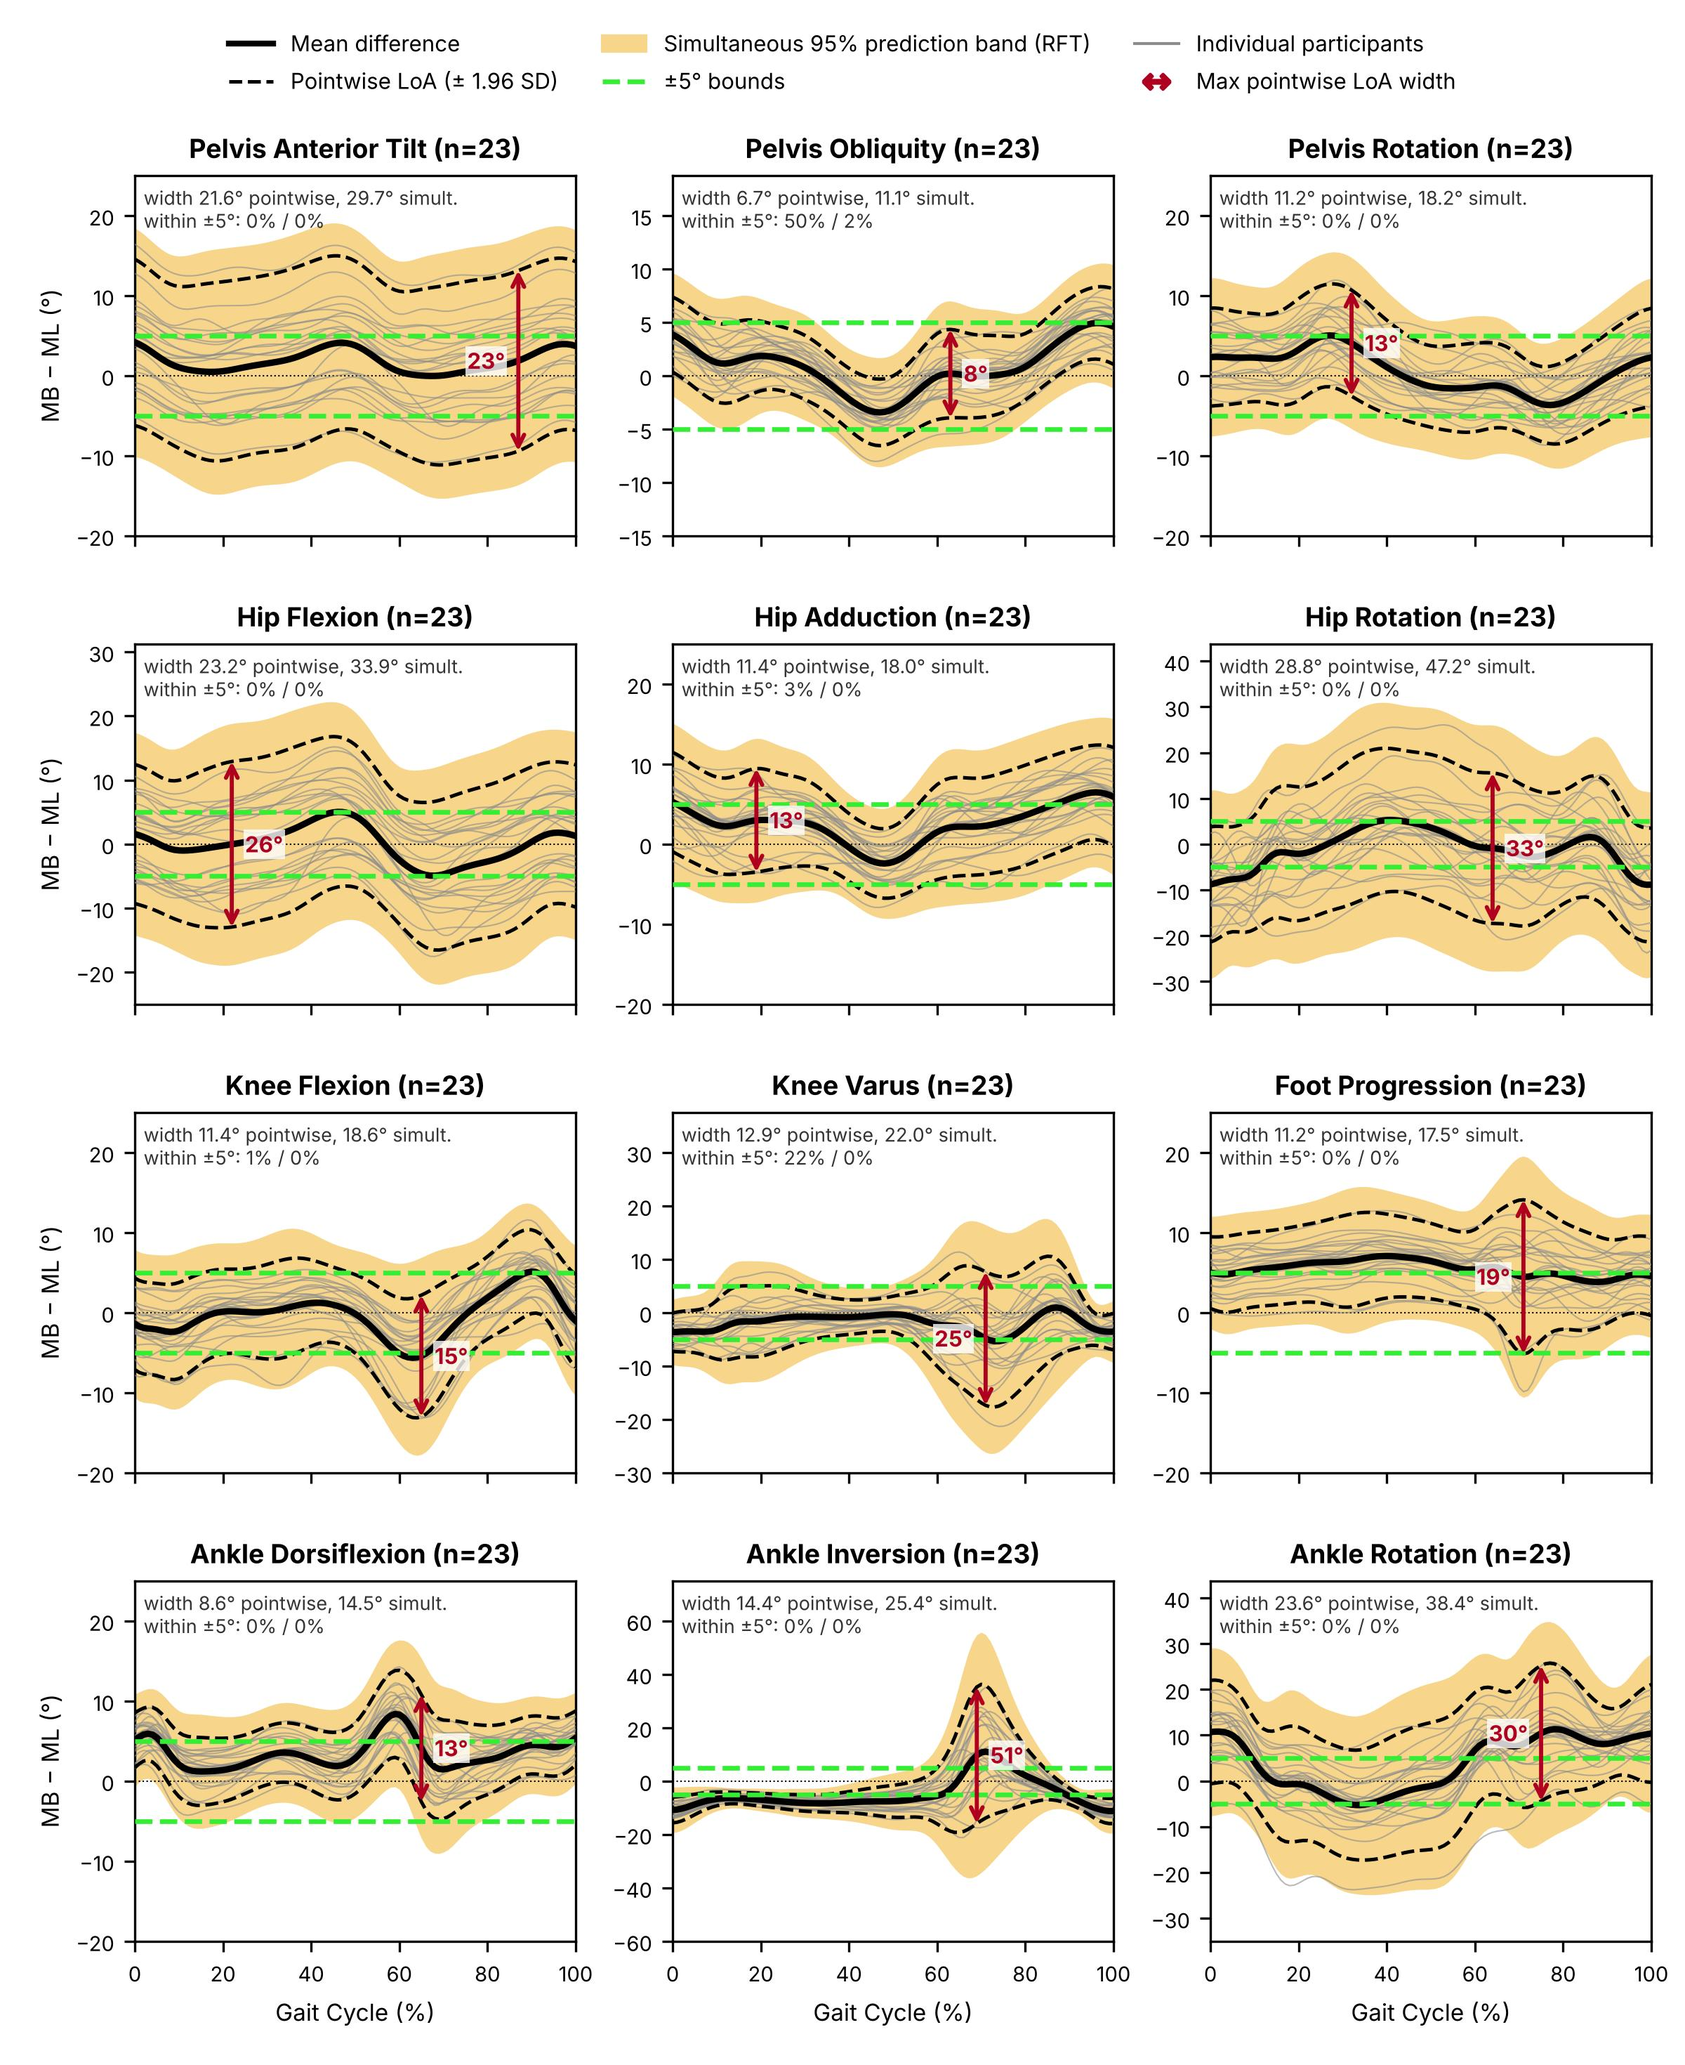
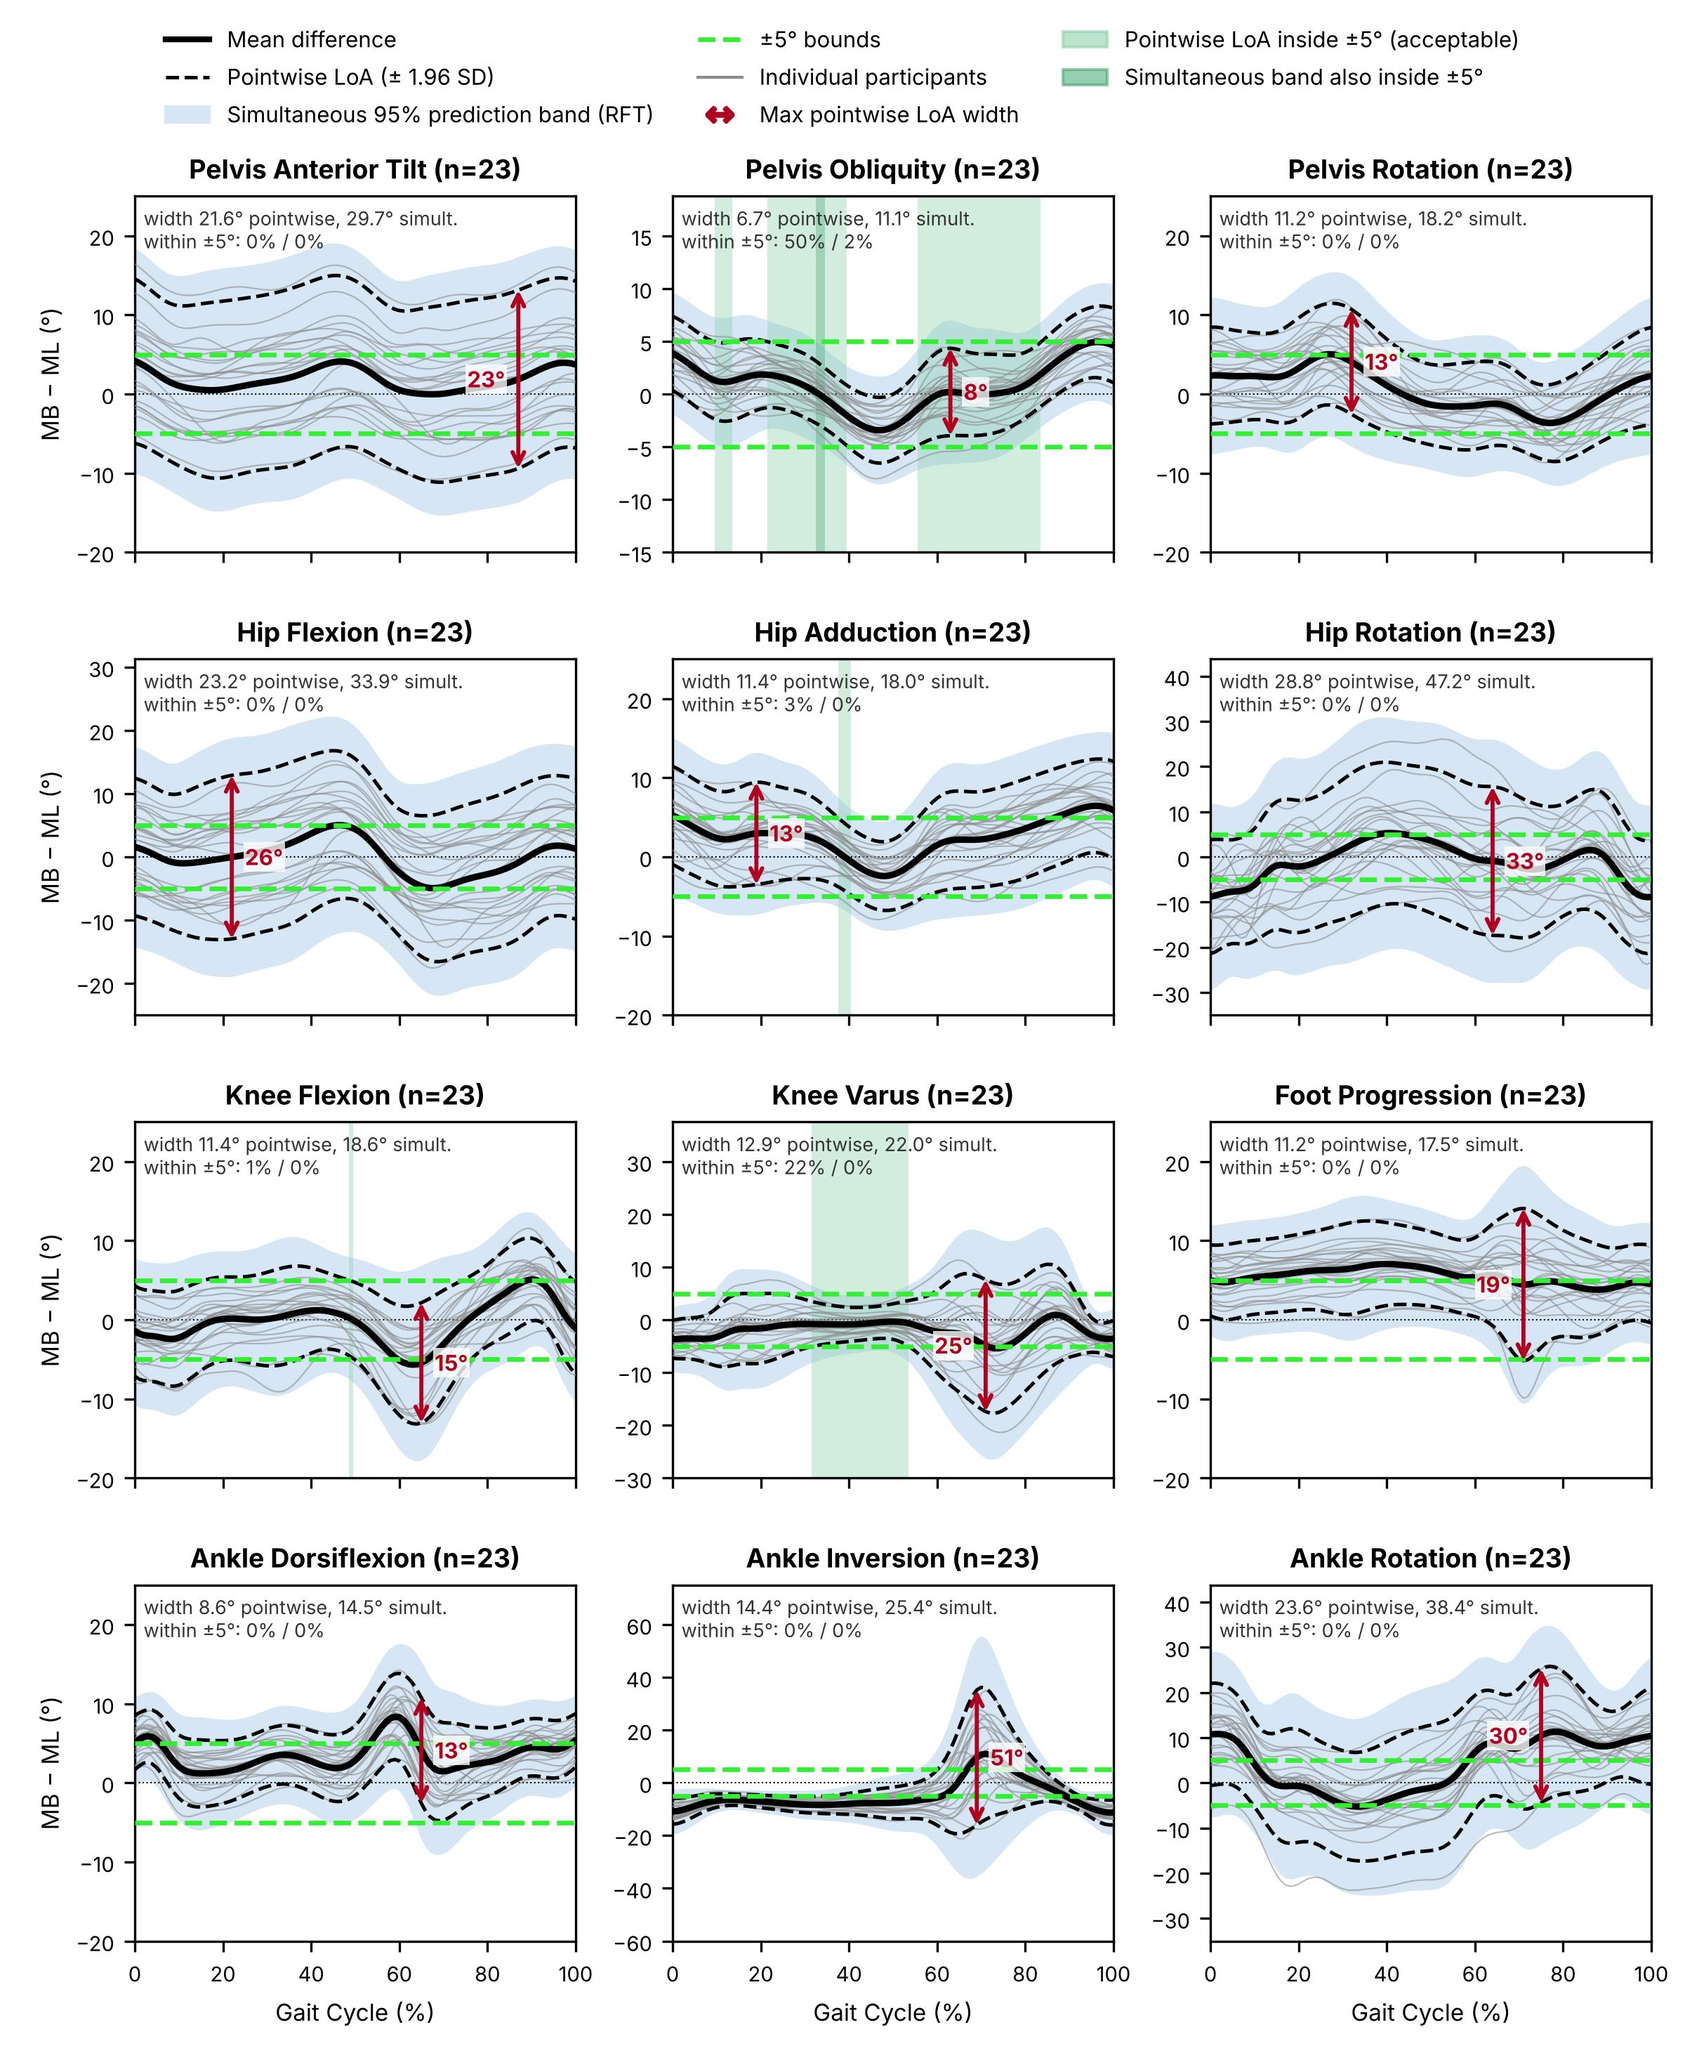
LoA and conceptual figures: mark acceptable agreement in green, neutral band
The simultaneous prediction band is light blue (no verdict implied) and green shading marks where the
pointwise LoA (light) and the simultaneous band (darker) lie inside the bounds, i.e. acceptable agreement.
Amber and red are now reserved for the equivalence outcomes. The conceptual figure panels c and d use the
same language (acceptable vs not acceptable), and both figures are regenerated.

Claude-Session: https://claude.ai/code/session_015w9XBhFVNXRPjuHceetm3n

diff --git a/python_analysis/07_plot_conceptual_figure.py b/python_analysis/07_plot_conceptual_figure.py
@@ -22,14 +22,17 @@ a  One point of the gait cycle: five example 90 % CIs of the mean difference MB 
 b  Across the gait cycle: the mean difference and its CI band coloured by outcome (the part of the band beyond a bound
    drawn darker), the share of the cycle that is equivalent, and an SPM bar underneath.
 c  One point of the gait cycle: distribution of individual differences with the LoA (mean +/- 1.96 SD) against the
-   bounds - interchangeable, equivalent for group means only, or not interchangeable.
+   bounds - acceptable (LoA inside +/-Delta) or not acceptable (LoA exceed +/-Delta), the latter either with the group
+   mean inside the bounds or with a systematic bias.
 d  Across the gait cycle: smooth individual difference curves, pointwise LoA, the simultaneous prediction band
    (a schematic multiplier of 3.0 stands in for the random-field-theory threshold) and the bounds, with bars showing
    where each band lies inside +/-Delta.
 
-Colours match the results figures: green = equivalent / interchangeable, amber = inconclusive / group-level only and
-the simultaneous prediction band, red = not equivalent / not interchangeable.  The equivalence classification uses the
-same function as the analysis (``common.classify_equivalence``).
+Colours match the results figures.  Equivalence outcomes (panels a, b): green = equivalent, amber = inconclusive,
+red = not equivalent.  Agreement (panels c, d): green marks ACCEPTABLE agreement (LoA inside +/-Delta; the lighter green is
+the pointwise LoA, the darker green also the simultaneous band) and the simultaneous band itself is light blue, so no
+verdict is implied where the LoA exceed the bounds.  The equivalence classification uses the same function as the analysis
+(``common.classify_equivalence``).
 
 Usage
 -----
@@ -58,13 +61,15 @@ OUT.parent.mkdir(parents=True, exist_ok=True)
 D = 5.0                                                     # equivalence bound (schematic, "Delta")
 C_EQ, C_INC, C_NE = '#2ca25f', '#f0a020', '#d62728'          # strong colours: equivalent / inconclusive / not equivalent
 L_EQ, L_INC, L_NE = '#a6dcbd', '#f7d58b', '#f08f82'          # light band colours
-C_BOUND, C_BAND = '#33ee33', L_INC                           # bounds; simultaneous prediction band (amber, as in 05)
+C_BOUND, C_BAND = '#33ee33', '#d6e6f5'                       # bounds; simultaneous prediction band (light blue, as in 05)
+OK_PW, OK_SIM = '#8fd1ae', '#2f9e63'                         # acceptable agreement: pointwise LoA / simultaneous band inside
+C_NOTOK = '#6b6b6b'                                          # LoA exceed the bounds (no verdict colour)
 x = np.arange(101)
 rng = np.random.default_rng(args.seed)
 
 fig = plt.figure(figsize=(12.5, 10.4))
 gs = fig.add_gridspec(2, 2, width_ratios=[1, 1.2], height_ratios=[1, 1.08], left=0.135, right=0.985, top=0.875,
-                      bottom=0.115, hspace=0.36, wspace=0.34)
+                      bottom=0.135, hspace=0.36, wspace=0.34)
 
 
 def panel_letter(ax, s):
@@ -160,9 +165,9 @@ bar.text(-0.015, 0.5, 'SPM', transform=bar.transAxes, ha='right', va='center', f
 
 # ------------------------------------------------------------------ c: LoA at one point
 sc = [  # mean, sd, outcome text, colour
-    (0.6, 1.1, 'Interchangeable (individual level)', C_EQ, 'LoA inside ±Δ: individual differences are expected to be acceptable'),
-    (0.8, 3.5, 'Equivalent for group means only', C_INC, 'mean inside ±Δ, but LoA exceed ±Δ: individuals may differ too much'),
-    (6.6, 1.5, 'Not interchangeable', C_NE, 'the mean difference itself exceeds ±Δ (systematic bias)'),
+    (0.6, 1.1, 'Acceptable agreement (individual level)', OK_SIM, 'LoA inside ±Δ: individual differences are expected to be acceptable'),
+    (0.8, 3.5, 'Not acceptable: LoA exceed ±Δ', C_NOTOK, 'mean inside ±Δ (group means equivalent), but individual differences are too large'),
+    (6.6, 1.5, 'Not acceptable: LoA exceed ±Δ', C_NOTOK, 'the mean difference itself exceeds ±Δ (systematic bias)'),
 ]
 sub = gs[1, 0].subgridspec(3, 1, hspace=0.55)
 xs = np.linspace(-14, 14, 400)
@@ -213,6 +218,9 @@ plo, phi = m_s - 1.96 * sd_s, m_s + 1.96 * sd_s
 zstar = 3.0                                                       # schematic random-field-theory threshold
 slo, shi = m_s - zstar * sd_s * np.sqrt(1 + 1 / n), m_s + zstar * sd_s * np.sqrt(1 + 1 / n)
 axd.fill_between(x, slo, shi, color=C_BAND, lw=0, zorder=1)
+for mask_, col_, alpha_ in (((plo >= -D) & (phi <= D), OK_PW, 0.40), ((slo >= -D) & (shi <= D), OK_SIM, 0.30)):
+    for s0_, e0_ in runs(mask_):
+        axd.axvspan(s0_ - 0.5, e0_ + 0.5, color=col_, alpha=alpha_, lw=0, zorder=2)      # acceptable agreement
 axd.plot(x, curves.T, color='0.55', lw=0.6, alpha=0.7, zorder=3)
 axd.plot(x, plo, 'k--', lw=1.3, zorder=4); axd.plot(x, phi, 'k--', lw=1.3, zorder=4)
 axd.plot(x, m_s, 'k', lw=2.4, zorder=5)
@@ -227,8 +235,8 @@ axd.set_title('Limits of agreement across the gait cycle (individual level)', fo
 in_p = (plo >= -D) & (phi <= D)
 in_s = (slo >= -D) & (shi <= D)
 axd.text(99, 13.8, "Simultaneous band is wider than the pointwise LoA:\nit covers a new participant's whole curve with 95% probability", ha='right', va='top',
-         fontsize=7.8, color='#a35f00')
-for j, (mask, label, c) in enumerate(((in_p, 'Pointwise LoA\ninside ±Δ', '#333333'), (in_s, 'Simultaneous band\ninside ±Δ', C_INC))):
+         fontsize=7.8, color='#2c5f8f')
+for j, (mask, label, c) in enumerate(((in_p, 'Pointwise LoA\ninside ±Δ', OK_PW), (in_s, 'Simultaneous band\ninside ±Δ', OK_SIM))):
     b2 = fig.add_subplot(subd[1 + j])
     b2.set_xlim(0, 100); b2.set_ylim(0, 1); b2.set_yticks([])
     for sp in ('top', 'right', 'left'):
@@ -245,12 +253,14 @@ for j, (mask, label, c) in enumerate(((in_p, 'Pointwise LoA\ninside ±Δ', '#333
 # ------------------------------------------------------------------ legends / reading guide
 fig.legend(handles=[Patch(color=L_EQ, label='Equivalent: CI inside ±Δ'), Patch(color=C_INC, label='Inconclusive: CI crosses a bound'),
                     Patch(color=C_NE, label='Not equivalent: CI beyond a bound'),
-                    Line2D([0], [0], color=C_BOUND, ls='--', lw=1.8, label='Equivalence bounds ±Δ (e.g. MDC or ±5°)'),
+                    Line2D([0], [0], color=C_BOUND, ls='--', lw=1.8, label='Bounds ±Δ (e.g. MDC or ±5°)'),
                     Line2D([0], [0], color='k', lw=2, label='Mean difference'),
                     Line2D([0], [0], color='k', ls='--', lw=1.3, label='Pointwise LoA (±1.96 SD)'),
                     Patch(color=C_BAND, label='Simultaneous prediction band (RFT)'),
-                    Line2D([0], [0], color='0.55', lw=1, label='Individual participants')],
-           loc='lower center', ncol=4, fontsize=8.2, frameon=False, bbox_to_anchor=(0.5, 0.004))
+                    Line2D([0], [0], color='0.55', lw=1, label='Individual participants'),
+                    Patch(color=OK_PW, alpha=0.7, label='LoA inside ±Δ: acceptable'),
+                    Patch(color=OK_SIM, alpha=0.7, label='Simultaneous band also inside ±Δ')],
+           loc='lower center', ncol=4, fontsize=8, frameon=False, bbox_to_anchor=(0.5, 0.004))
 fig.text(0.5, 0.975, 'Group equivalence and individual agreement: possible outcomes (schematic, synthetic data)',
          ha='center', fontsize=13, fontweight='bold')
 # panel letters: one baseline per row, one left edge per column (figure coordinates)

diff --git a/python_analysis/05_plot_loa.py b/python_analysis/05_plot_loa.py
@@ -6,9 +6,13 @@ Reads ``results/loa_<tag>.npz`` written by ``03_loa_analysis.py`` and draws one 
 * thin grey lines   - each participant's difference curve MB - ML;
 * black line        - mean difference;
 * dashed black      - pointwise functional LoA, mean +/- 1.96 SD (Roislien et al. 2012);
-* amber band        - simultaneous 95 % prediction band, mean +/- z* SD sqrt(1+1/n) (spm1d random-field theory);
+* light-blue band   - simultaneous 95 % prediction band, mean +/- z* SD sqrt(1+1/n) (spm1d random-field theory);
 * green dashed      - the +/-5 degree equivalence bounds;
-* red double arrow  - width of the pointwise LoA where it is largest (degrees).
+* red double arrow  - width of the pointwise LoA where it is largest (degrees);
+* green shading     - where the agreement is ACCEPTABLE: light green where the pointwise LoA lie inside the bounds,
+                      darker green where the simultaneous band does too (a new participant's whole curve is then
+                      expected inside).  Nowhere else is a verdict implied: amber and red are reserved for the
+                      equivalence outcomes (``04_plot_equivalence.py``).
 
 The text in each panel gives the mean width of both bands and the percentage of the gait cycle for which the
 band lies inside the bounds.
@@ -28,9 +32,10 @@ import numpy as np
 from matplotlib.lines import Line2D
 from matplotlib.patches import Patch
 
-from common import FIGURES_DIR, RESULTS_DIR
+from common import FIGURES_DIR, RESULTS_DIR, runs
 
-GREEN, RED, AMBER = '#33ee33', '#b00020', '#f7d58b'
+GREEN, RED, BAND = '#33ee33', '#b00020', '#d6e6f5'
+OK_PW, OK_SIM = '#8fd1ae', '#2f9e63'        # acceptable agreement: pointwise LoA inside / simultaneous band inside
 
 
 def main():
@@ -47,13 +52,17 @@ def main():
     x = np.arange(101)
 
     fig, axes = plt.subplots(4, 3, figsize=(8, 9.8), sharex=True)
-    fig.subplots_adjust(left=0.08, right=0.98, top=0.915, bottom=0.06, hspace=0.3, wspace=0.22)
+    fig.subplots_adjust(left=0.08, right=0.98, top=0.905, bottom=0.06, hspace=0.3, wspace=0.22)
     for ax, code, title in zip(axes.ravel(), meta['variables'], meta['titles']):
         d, md = z[f'{code}_d'], z[f'{code}_md']
         lo, hi, slo, shi = z[f'{code}_lo'], z[f'{code}_hi'], z[f'{code}_slo'], z[f'{code}_shi']
         w = hi - lo
 
-        ax.fill_between(x, slo, shi, color=AMBER, lw=0, zorder=1)
+        ax.fill_between(x, slo, shi, color=BAND, lw=0, zorder=1)
+        for mask, col, alpha in (((lo >= -bound) & (hi <= bound), OK_PW, 0.40),
+                                 ((slo >= -bound) & (shi <= bound), OK_SIM, 0.30)):   # acceptable agreement
+            for s0, e0 in runs(mask):
+                ax.axvspan(s0 - 0.5, e0 + 0.5, color=col, alpha=alpha, lw=0, zorder=2)
         ax.plot(x, d.T, color='0.55', lw=0.5, alpha=0.6, zorder=3)          # drawn above the band
         ax.plot(x, lo, '--', color='k', lw=1.2, zorder=4)
         ax.plot(x, hi, '--', color='k', lw=1.2, zorder=4)
@@ -85,12 +94,14 @@ def main():
 
     fig.legend(handles=[Line2D([0], [0], color='k', lw=2, label='Mean difference'),
                         Line2D([0], [0], color='k', ls='--', lw=1.2, label='Pointwise LoA (± 1.96 SD)'),
-                        Patch(color=AMBER, label='Simultaneous 95% prediction band (RFT)'),
+                        Patch(color=BAND, label='Simultaneous 95% prediction band (RFT)'),
                         Line2D([0], [0], color=GREEN, ls='--', lw=1.6, label=f'±{bound:g}° bounds'),
                         Line2D([0], [0], color='0.55', lw=1, label='Individual participants'),
                         Line2D([0], [0], color=RED, marker='$\\leftrightarrow$', ls='', ms=9,
-                               label='Max pointwise LoA width')],
-               loc='upper center', ncol=3, fontsize=7.5, frameon=False, bbox_to_anchor=(0.5, 0.995))
+                               label='Max pointwise LoA width'),
+                        Patch(color=OK_PW, alpha=0.6, label=f'Pointwise LoA inside ±{bound:g}° (acceptable)'),
+                        Patch(color=OK_SIM, alpha=0.5, label=f'Simultaneous band also inside ±{bound:g}°')],
+               loc='upper center', ncol=3, fontsize=7.5, frameon=False, bbox_to_anchor=(0.5, 0.997))
     out = args.out or FIGURES_DIR / f'loa_{args.tag}.jpg'
     out.parent.mkdir(parents=True, exist_ok=True)
     fig.savefig(out, dpi=args.dpi)

diff --git a/python_analysis/README.md b/python_analysis/README.md
@@ -33,7 +33,7 @@ re-run `02`, `03` and the plots after changing the selection.  Results are writt
 | `02_equivalence_analysis.py` | 90 % spm1d CI of MB - ML, three-way classification, SPM paired t-test, Table 1 |
 | `03_loa_analysis.py` | pointwise functional LoA and simultaneous prediction band, optional leave-one-out coverage |
 | `04_plot_equivalence.py` | equivalence figure (CI coloured by outcome, SPM bar) |
-| `05_plot_loa.py` | LoA figure (pointwise + simultaneous bands, +/-5 deg bounds, width annotations) |
+| `05_plot_loa.py` | LoA figure (pointwise + simultaneous bands, +/-5 deg bounds, width annotations; green shading marks where the LoA lie inside the bounds, i.e. acceptable agreement) |
 | `06_plot_means.py` | grand mean +/- SD figure of MB and ML (Python version of the manuscript means figure) |
 | `07_plot_conceptual_figure.py` | conceptual figure of the possible equivalence and LoA outcomes (synthetic data; no results needed) |
 
